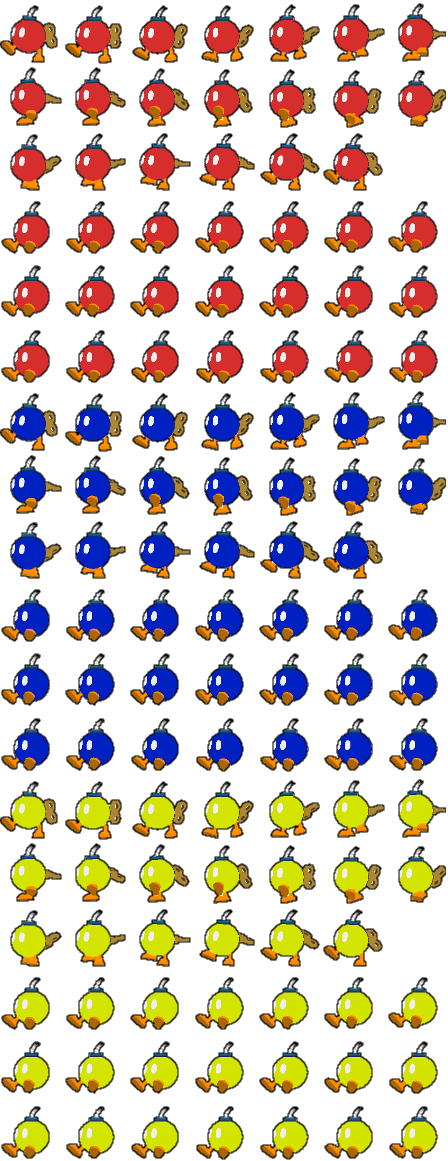
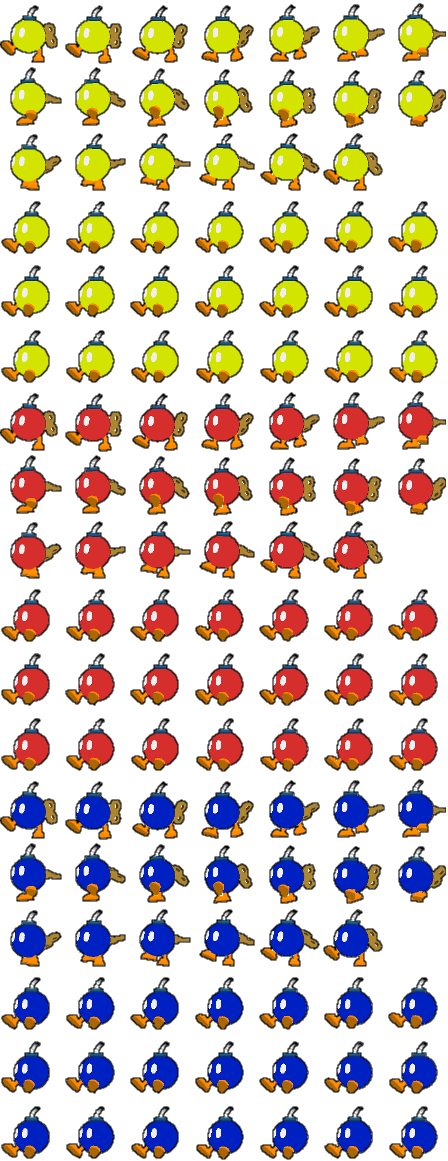
Added multi-colored sprited

diff --git a/Pawn.cpp b/Pawn.cpp
@@ -10,10 +10,6 @@
 Pawn::Pawn()
 		: m_eColor()
 {
-	//Initialize frame dimensions
-	SDL_Rect frame = { 0, 0, SPRITE_SIZE, SPRITE_SIZE };
-	//Create sprite object
-	mPlayerSprite = new Sprite(frame, NUM_OF_FRAMES, ANIMATION_DELAY);
 	setUiPosition(0);
 }
 
@@ -35,7 +31,6 @@ void Pawn::setRenderer(SDL_Renderer* renderer)
 Pawn::~Pawn()
 {
 	//Release resources
-	mPlayerSprite->free();
 	delete mPlayerSprite;
 }
 
@@ -54,6 +49,10 @@ Colors Pawn::getEColor() const
 
 void Pawn::setEColor(Colors eColor)
 {
+	//Initialize frame dimensions
+	SDL_Rect frame = { 0, (eColor-1)*SPRITE_SIZE*6, SPRITE_SIZE, SPRITE_SIZE };
+	//Create sprite object
+	mPlayerSprite = new Sprite(frame, NUM_OF_FRAMES, ANIMATION_DELAY);
 	m_eColor = eColor;
 }
 

diff --git a/Sprite.cpp b/Sprite.cpp
@@ -9,6 +9,8 @@ Sprite::Sprite(SDL_Rect frameSize, Uint32 numOfFrames, Uint32 animationDelay){
 
 	//Initialize animation frame
 	mAnimationFrame = frameSize;
+	miInitX = frameSize.x;
+	miInitY = frameSize.y;
 }
 
 void Sprite::setAnimationDelay(Uint32 animationDelay){
@@ -39,8 +41,8 @@ void Sprite::render(int x, int y, SDL_Rect* clip, double a, SDL_Point* c, SDL_Re
 		//If we are on the last frame
 		} else {
 			//Go back to the first frame
-			mAnimationFrame.x = 0;
-			mAnimationFrame.y = 0;
+			mAnimationFrame.x = miInitX;
+			mAnimationFrame.y = miInitY;
 			//Reset current frame counter
 			miCurrentFrame = 0;
 		}

diff --git a/Sprite.h b/Sprite.h
@@ -56,7 +56,9 @@ private:
 
 	//Number of animation frames
 	Uint32 miNumOfFrames;
-		
+
+	//Initial frame coordinates
+	Uint32 miInitX, miInitY;
 };
 
 #endif

diff --git a/Pawn.h b/Pawn.h
@@ -8,7 +8,7 @@
 #ifndef PAWN_H_
 #define PAWN_H_
 
-#define SPRITE_SIZE 64
+#define SPRITE_SIZE 65
 #define ANIMATION_DELAY 25
 #define NUM_OF_FRAMES 20
 
